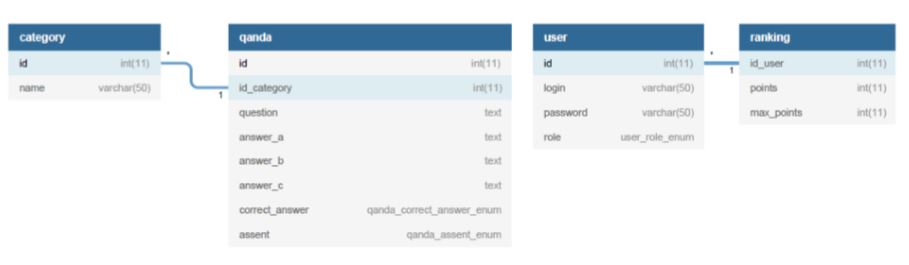
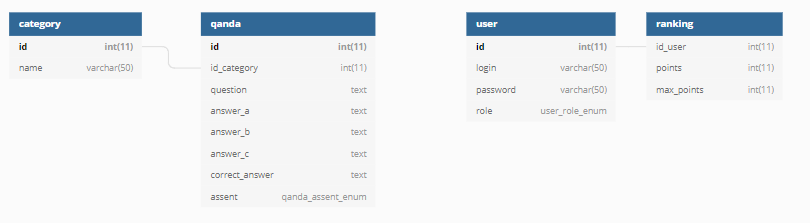
Dokończenie dokunetacji. Finish Finito. KONIEC.

diff --git a/index.php b/index.php
@@ -356,7 +356,7 @@
         <div class="row">
 
         <div class="col-lg-10">
-            
+
         </div>
     </div>  
         <footer class="footer">

diff --git a/README.md b/README.md
@@ -171,7 +171,8 @@ Ten plik zawiera całą dokumentację aplikacji.Posiada rozrzeszenie md co powod
 
 ## Struktura bazy danych
 ### Schemat bazy danych
- ![](dokumenatcja/schemat.JPG)
+
+ ![](dokumentacja/schemat.JPG)
  
 ### Tabela: category
 Tabela przechowuje informacje o kategoriach.
@@ -192,7 +193,7 @@ Tabela przechowuje informacje na temat pytań do quizów.
 | **answer_a** | text | Odpowiedź a. |
 | **answer_b** | text | Odpowiedź b. |
 | **answer_c** | text | Odpowiedź c. |
-| **correct_answer** | enum | Zwiera odpowiedź, kolumna może przyjąć wartość: 'A','B' lub 'C'. |
+| **correct_answer** | text | Zwiera odpowiedź, kolumna może przyjąć wartość taką jak w kolumnach z odpowiedziami. Wszystko zależy od tego jaka jest poprawna odpowiedź |
 | **assent** | enum | Informacja na temat akceptacji pytań przez administratora: '0' - pytanie niezaakceptowane, '1' - pytanie zaakceptowane. Wartością domyślną jest '0'. |
 
 ### Tabela: ranking
@@ -280,26 +281,56 @@ class Question
     }
 ```
 
-Za możliwość dodawannia nowych pytań odpowiada metoda `addQuestion()`, która dodaje odpowiednio: id pytania, odpowiedź A, odpowiedź B, odpowiedź C oraz poprawną odpowiedź.
+Za możliwość dodawannia nowych pytań odpowiada metoda `addQuestion()`, która dodaje odpowiednio: id pytania, odpowiedź A, odpowiedź B, odpowiedź C oraz poprawną odpowiedź do tabeli *qanda*. Metoda najpierw sprawdza 
+jaką odpowiedź zaznaczyliśmy jako 'poprawna'. Wtedy oprócz wstawiania tej odpowiedzi do odpowiedniej kolumny, kopiuje ją
+i umieszcza w kolumnie *correct_answer*.
 
 ```ruby
  public function addQuestion()
-    {
-        $query = 'INSERT INTO qanda SET 
-            id_category="' . $this->_id_category . '",
-            question="' . $this->_question . '",
-            answer_a="' . $this->_answerA . '",
-            answer_b="' . $this->_answerB . '",
-            answer_c="' . $this->_answerC . '",   
-            correct_answer="' . $this->_correct_answer . '"';
-        $result = $this->db->query($query) or die($this->db->error);
-        return true;
-    }
+     {
+         switch ($this->_correct_answer) {
+             case "A":
+                 $this->_correct_answer = $this->_answerA;
+                 break;
+             case "B":
+                 $this->_correct_answer = $this->_answerB;
+                 break;
+             case "C":
+                 $this->_correct_answer = $this->_answerC;
+                 break;
+         }
+         $query = 'INSERT INTO qanda SET 
+             id_category="' . $this->_id_category . '",
+             question="' . $this->_question . '",
+             answer_a="' . $this->_answerA . '",
+             answer_b="' . $this->_answerB . '",
+             answer_c="' . $this->_answerC . '",   
+             correct_answer="' . $this->_correct_answer . '"';
+         $result = $this->db->query($query) or die($this->db->error);
+         return true;
+     }
 ```
+Do wyświetlania niezaakceptowanych pytań w panelu administratora odpowiada metoda `getQuestionNoAssent()`. Metoda ma za zadanie
+wyciągać z tabeli *qanda* pytania, które w kolumnie *assent* mają wartość '0' (czyli są nie zaakceptowane).
 
-Pododaniu pytań przez administratora lub użytkownika muszą być one zaakceptowane przez administratora. Należy tego dokonać, ponieważ domyślnie
+```ruby
+    public function getQuestionNoAssent()
+    {
+        $query = "SELECT * FROM qanda WHERE assent = '0'";
+        $result = $this->db->query($query) or die($this->db->error);
+        while ($row = $result->fetch_array(MYSQLI_ASSOC)) {
+            $rowi[] = $row;
+        }
+        if (!empty($rowi))
+
+            return $rowi;
+
+    }
+```  
+
+Po dodaniu pytań przez użytkownika muszą być one zaakceptowane przez administratora. Należy tego dokonać, ponieważ domyślnie
 po utworzeniu pytania jego wartością domyślną w tabeli *quanda* jest '0'. Natomiast wykorzystanie tych pytań występuje tylko wtedy, gdy wartość domyślna w 
-tabelii *quanda* jest równa '1'. Związku z tym za zmianę akceptacji pytań odpowiada metoda `updateStatusWhenQuestionAssent()`.
+tabelii *quanda* w kolumnie *assent* jest równa '1'. W związku z tym za zmianę akceptacji pytań odpowiada metoda `updateStatusWhenQuestionAssent()`.
 
 ```ruby
  public function updateStatusWhenQuestionAssent(){
@@ -310,24 +341,38 @@ tabelii *quanda* jest równa '1'. Związku z tym za zmianę akceptacji pytań od
 ```    
 
 
-Do wyświetlania pytań z odpowiednich kategorii służą metody `getQuestionAssent...`. Każda z nich ma określoną własną `id_category`, aby były odpowiednio identyfikowane ze swoimi kategoriami
-i w odpowieniej kategorii były wyświetlane tylko pytania należące do jej dziedziny.
-Poniżej znajduje się przykładowa metoda dla kategorii geogragia.
+Do wyświetlania pytań z odpowiednich kategorii służy  metoda `getQuestionFromCategory()`. Metoda ta wykorzystuje wcześniej 
+podany numer id kategorii i wyszukuje tylko te pytania, które są zatwierdzone i mają w kolumnie *id_category* tenże właśnie numer.
+
 ```ruby
- public function getQuestionAssentGeografia()
-    {
-        $query = "SELECT * FROM qanda WHERE assent = '1' AND id_category = '1'";
+public function getQuestionFromCategory(){
+        $query = "SELECT id FROM qanda WHERE id_category = '".$this->_id_category."' AND assent = '1'";
         $result = $this->db->query($query) or die($this->db->error);
         while ($row = $result->fetch_array(MYSQLI_ASSOC)) {
-            $rows[] = $row;
+            $rowi[] = $row;
         }
-        if (!empty($rows))
+        if (!empty($rowi))
 
-            return $rows;
+            return $rowi;
 
     }
 ```
 
+Wkradła nam się jeszcze jedna metoda `random_numbers ($from, $to, $amount)`, którą wykorzystujemy do losowania randomowych liczb z zakresu, który potrzebujemy.
+Wykorzystujemy ją przy losowaniu pytań do quizów.
+
+```ruby
+    public function random_numbers ($from, $to, $amount) {
+        $range = range($from, $to);
+        $random = array_rand($range, $amount);
+        $result = array();
+        foreach ($random as $index) {
+            $result []= $range[$index];
+        }
+        return $result;
+    }
+
+```
 
 ### User.php
 Zadaniem klasy jest odpowiadanie za łączność z tabelą *user* oraz wykonywanie zagadnień związanych z użytkownikiem (rejestracja, logowanie oraz rola użytkownika).
@@ -461,7 +506,75 @@ public function logout() {
  ``` 
  
 ### Ranking.php
-Zadaniem klasy jest odpowiedanie za ranking punktacji quizów.
+Zadaniem klasy jest odpowiadanie za ranking punktacji quizów.
+
+Funkcja `addScore($id,$score)` wykorzystując numer id użytkownika ($id) oraz liczbę punktów, które uzyskał
+w quizie ($score) dodaje zdobyte punkty do wiersza w kolumnie *points* oraz dodaje '10' do wiersza w kolumnie 
+*max_points* abyśmy wiedzieli na ile pytań użytkowanik już odpowiedział.
+
+```ruby
+    public function addScore($id,$score){
+        $query = "UPDATE ranking SET points = points +{$score} , max_points = max_points+10 WHERE id_user={$id}";
+        $result = $this->db->query($query) or die($this->db->error);
+
+    }
+```
+
+Metoda `searchUserInRanking ($id)` wyszukuje czy w tabeli *ranking* jest użytkownik o podanym przez nas numerze id ($id).
+Jeżeli nie ma go w tabeli zwraca nam 'false'. Jeżeli jednak jest, zwraca 'true'.
+
+```ruby
+    public function searchUserInRanking ($id){
+        $query = "SELECT * FROM ranking WHERE id_user = {$id}";
+        $result = $this->db->query($query) or die($this->db->error);
+        $data = mysqli_fetch_all($result, MYSQLI_ASSOC);
+        if (!empty($data)){
+            return true;
+        }
+        else{
+            return false;
+        }
+    }
+```
+
+Metodą `addUserToRanking($id)` dodamy użytkownika o podanym numerze id do tabeli *ranking*.
+
+```ruby
+    public function addUserToRanking($id){
+        $query = "INSERT INTO ranking SET id_user={$id}";
+        $result = $this->db->query($query) or die($this->db->error);
+    }
+```
+
+Metoda `convertToProcent($id)` przelicza ilość odpwoedzi poprawnych w stosunku do  wszystkich opdpowiedzi na 
+wynik procentowy. Co daje nam możliwość zobaczenia jak skuteczny w odpowiedziach był nasz użytkownik.
+
+```ruby
+    public function convertToProcent($id){
+        $query = "SELECT * FROM ranking WHERE id_user={$id}";
+        $result = $this->db->query($query) or die($this->db->error);
+        $data = mysqli_fetch_all($result, MYSQLI_ASSOC);
+        $data = $data[0]; // wyciagnij pierwszy wiersz
+        $a = intval($data["points"], 10);
+        $b = intval($data["max_points"], 10);
+        if($b == 0){
+            return "Database error";
+        }
+        $procent = ($a/$b)*100;
+        return "{$procent}%";
+    }
+```
+
+Metoda `rankingInfo()` zwraca nam już posortowane malejąco wyniki użytkowników.
+
+```ruby
+    public function rankingInfo(){
+        $query = "SELECT * FROM ranking ORDER BY max_points DESC, points DESC";
+        $result = $this->db->query($query) or die($this->db->error);
+        $data = mysqli_fetch_all($result, MYSQLI_ASSOC);
+        return $data;
+    }
+```
 
 ## Nawigacja na stronie
 ### Nawigacja podstawowa
@@ -985,6 +1098,109 @@ public function updateStatusWhenQuestionAssent(){
     }
 ```
 ## System wykonywania quizów
+Plikami odpowiedzialnymi za wykonywanie quizów jest plik nazwany odpowiednio każdą kategorią np. `geografia.php` oraz Klasa `Question`.
+
+Najpierw pobieramy za pomocą metody `getQuestionFromCategory()` zatwierdzone pytania z danej kategorii.
+
+```ruby
+$id_category=1;
+$question = new Question();
+$question->setId_category($id_category);
+$question_display = $question->getQuestionFromCategory();
+```
+
+Następnie losujemy randomowe numer id pytań, na które będzie odpowiadał użytkowanik.
+
+Zaczynamy od poznania ile pytań mamy do dyspozycji:
+
+ 
+```ruby
+//ilość elementów w tablicy = ilości pytań z danej kategorii
+$length_array = count($question_display);
+//var_dump($length_array);
+```
+
+Następnie z przedziału od '0' do liczby ocznaczającej długość tablicy z pytaniami (pomniejszona o 1).
+```ruby
+//losowanie 10 randomowych liczb
+$random = $question ->random_numbers(0,$length_array-1,10);
+//var_dump($random);
+```
+Na końcu wyciągamy numery id z tablicy, numerami elemetów są nasze losowe liczby z poprzedniego kroku.
+```ruby
+//wyciąganie "losowych" numerów id pyatń do quizu
+$id_question_to_quiz = array(10);
+for($i=0; $i<10;$i++){
+    $a=$random[$i];
+    $id_question_to_quiz[$i]=$question_display[$a];
+}
+```
+
+Wyświetlamy pytania z numerami id, które pobraliśmy  z tablicy `$id_question_to_quiz`.
+Następnie przechowujemy numer id pytania i odpowiedź użytkownaika na nie.
+
+```ruby
+echo "<form action='' method='POST'>";
+//var_dump($id_question_to_quiz);
+$questions_ids = [];
+foreach ( $id_question_to_quiz as $n => $row){
+    $question->setID($row['id']);
+    $quiz_question = $question ->getQuestionInfo();
+
+    $q = substr($quiz_question['question'],0,500);
+    $a = substr($quiz_question['answer_a'],0,500);
+    $b = substr($quiz_question['answer_b'],0,500);
+    $c = substr($quiz_question['answer_c'],0,500);
+    $ca = substr($quiz_question['correct_answer'],0,500);
+    $id = $quiz_question['id'];
+    echo "<div>";
+    echo "<label>Pytanie: $q </label><br><br>" ;
+    echo "<input type='radio' name='$id' value='$a' required><label>A: $a</label><br></input><br>";
+    echo "<input type='radio' name='$id' value='$b'><label>B: $b</label><br></input><br>";
+    echo "<input type='radio' name='$id' value='$c'><label>C: $c</label><br></input><br>";
+    //echo "<p>Poprawna odpowiedź: $ca</p>";
+
+    array_push($questions_ids, $id);
+    echo "<br><hr></div>";
+
+}
+```
+
+Jeżeli użytkownik kliknie przycisk wysyłający pytanie za pomocą wcześniej wyciągniętych jego odpowiedzi i numerów
+id pytań porównujemy odpowiedzi użytkownika do poprawnych odpowiedzi zamieszczonych 
+w tabeli *qanda* w kolumnie *correct_answer*. Jeżeli są takie same 
+do zmiennej przetrzymującej wynik (`$pkt`) dodajemy '1'.
+
+Gdy skończymy sprawdzać wszystkie pytania sprawdzamy czy nasz użytkownik jest w tabeli *ranking*.
+Jeżeli jest to wykorzystujemy metode `addScore()` aby dodać ilość poprawnych odpowiedzi do jego punktacji.
+Jeżeli jednak naszego użytkownika nie ma w tabeli *ranking* korzystamy z metody dodającej użytkownika do rankingu (`addUserToRanking()`).
+Następnie tak jak w przypadku poprzednim dodajemy mu punkty za pomocą metody `addScore()`. 
+Oczywiście wyświetlamy mu również powiadomienie ile punktów zdobył.
+```ruby
+if(isset($_POST['submit'])){
+    $answers_ids = unserialize($_POST["questions_ids"]);
+    $pkt=0;
+    foreach ( $answers_ids as $single_answer_id ) {
+        //echo $_POST[$single_answer_id];
+        $question -> setID($single_answer_id );
+        $correct_answer = $question ->getQuestionInfo();
+
+        if (strcmp($correct_answer['correct_answer'],$_POST[$single_answer_id]) === 0) {
+            $pkt++;
+        }
+    }
+
+    $UserInRanking = new Ranking();
+    if ($UserInRanking->searchUserInRanking($uid) == false ){
+        $UserInRanking->addUserToRanking($uid);
+        $UserInRanking->addScore($uid,$pkt);
+    }
+    else{
+        $UserInRanking->addScore($uid,$pkt);
+    }
+    echo "<script> alert(\"Zdobyłeś {$pkt}/10 punktów.\") </script>";
+}
+```
 
 ## System rankingu
 Plikami odpowiedzialnymi za ranking jest plik `rankign.php` oraz klasa `Ranking` w katalogu php.
